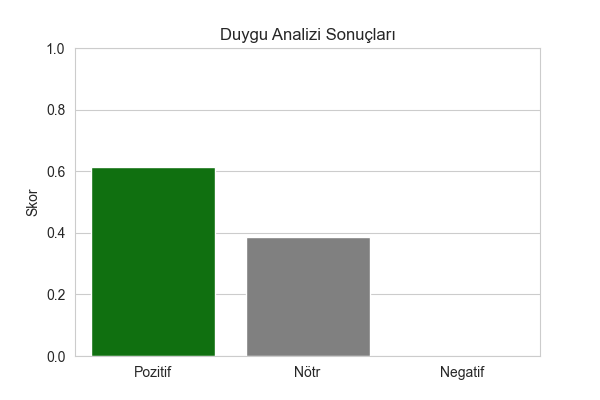
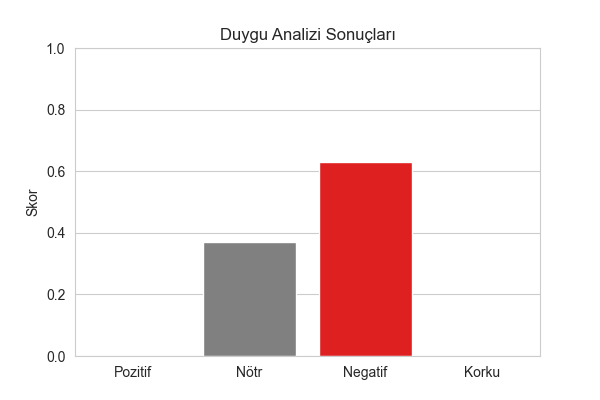
new feeling added
new feeling has been added and some changes have been made to the design

Changed region(s): [[0.15, 0.39, 0.69, 0.96], [0.72, 0.9, 0.84, 0.96]]

diff --git a/duyguAnalizi/templates/index.html b/duyguAnalizi/templates/index.html
@@ -5,24 +5,8 @@
     <meta name="viewport" content="width=device-width, initial-scale=1.0">
     <link href="https://cdn.jsdelivr.net/npm/bootstrap@5.3.0-alpha3/dist/css/bootstrap.min.css" rel="stylesheet">
     <link rel="shortcut icon" href="{{ url_for('static', filename='favicon.png') }}">
+    <link rel="stylesheet" href="{{ url_for('static', filename='style.css') }}">
     <title>Duygu Analizi</title>
-    <style>
-        #loader {
-            display: none;
-        }
-        body {
-            background-color: #f8f9fa; /* Arka plan rengi */
-        }
-        h1 {
-            color: #007bff; /* Başlık rengi */
-        }
-        .result {
-            background-color: #ffffff; /* Sonuç kutusu arka plan rengi */
-            border-radius: 5px;
-            padding: 20px;
-            box-shadow: 0 2px 10px rgba(0, 0, 0, 0.1);
-        }
-    </style>
 </head>
 <body>
     <div class="container mt-5">
@@ -39,13 +23,20 @@
                 <span class="visually-hidden">Yükleniyor...</span>
             </div>
         </div>
+        {% if request.method == 'POST' and 'text' in request.form %}
+            <div class="entered-text mb-3">
+                <label for="text" class="form-label">Analiz Edilen Metin:</label>
+                <textarea class="form-control"  rows="5" required readonly>{{ request.form['text'] }}</textarea>
+            </div>
+        {% endif %}
         {% if sentiment %}
             <div class="result mt-4">
-                <h3>Sonuç:</h3>
-                <p>Duygu: <strong>{{ sentiment }}</strong></p>
+                <h3>Analiz Sonuçları:</h3>
+                <p>Duygu Durumu: <strong>{{ sentiment }}</strong></p>
                 <p>Pozitif Skor: {{ scores.pos }}</p>
                 <p>Nötr Skor: {{ scores.neu }}</p>
                 <p>Negatif Skor: {{ scores.neg }}</p>
+                <p>Korku Skoru: {{ scores.fear }}</p>
                 <img src="{{ url_for('static', filename='sentiment_analysis.png') }}" alt="Duygu Analizi Grafiği" class="img-fluid mt-3">
             </div>
         {% endif %}
@@ -58,6 +49,18 @@
 
             form.addEventListener("submit", function() {
                 loader.style.display = "block"; // Yükleniyor animasyonunu göster
+            });
+        });
+
+        document.addEventListener("DOMContentLoaded", function() {
+            const form = document.querySelector("form");
+            const textArea = document.getElementById("text");
+
+            textArea.addEventListener("keydown", function(event) {
+                if (event.key === "Enter" && !event.shiftKey) {
+                    event.preventDefault(); // Enter tuşunun varsayılan davranışını engelle
+                    form.submit(); // Formu gönder
+                }
             });
         });
     </script>

diff --git a/duyguAnalizi/static/style.css b/duyguAnalizi/static/style.css
@@ -1,0 +1,28 @@
+/* Bu dosya, uygulamanın stil dosyasıdır. */
+body {
+    background-color: #f8f9fa; /* Arka plan rengi */
+}
+h1 {
+    color: #007bff; /* Başlık rengi */
+}
+.result {
+    background-color: #ffffff; /* Sonuç kutusu arka plan rengi */
+    border-radius: 5px;
+    padding: 20px;
+    box-shadow: 0 2px 10px rgba(0, 0, 0, 0.1);
+}
+.result img {
+    display: block;
+    margin-left: auto;
+    margin-right: auto;
+}
+.entered-text {
+    background-color: #e9ecef; /* Girilen metin kutusu arka plan rengi */
+    border-radius: 5px;
+    padding: 15px;
+    margin-top: 20px;
+    box-shadow: 0 2px 10px rgba(0, 0, 0, 0.1);
+}
+ #loader {
+            display: none;
+        }

diff --git a/duyguAnalizi/app.py b/duyguAnalizi/app.py
@@ -1,4 +1,4 @@
-from flask import Flask, render_template, request, send_from_directory
+from flask import Flask, render_template, request
 from nltk.sentiment import SentimentIntensityAnalyzer
 from deep_translator import GoogleTranslator
 import matplotlib.pyplot as plt
@@ -16,6 +16,9 @@ logging.basicConfig(level=logging.INFO)
 app = Flask(__name__)
 sia = SentimentIntensityAnalyzer()
 
+# "Korku" ile ilişkili kelimeler listesi
+FEAR_KEYWORDS = ["korku", "korkutucu", "endişe", "panik", "dehşet", "kaygı"]
+
 # Türkçe metni İngilizceye çeviren fonksiyon
 def translate_turkish_to_english(text):
     try:
@@ -31,20 +34,29 @@ def sentiment_analyzer_and_plot(text):
 
     # Eğer çeviri sırasında hata oluştuysa
     if "Çeviri sırasında hata oluştu" in translated_text:
-        return translated_text, {'pos': 0, 'neu': 0, 'neg': 0}
+        return translated_text, {'pos': 0, 'neu': 0, 'neg': 0, 'fear': 0}
 
     # VADER ile duygu analizi yap
     sentiment_scores = sia.polarity_scores(translated_text)
     logging.info(f"Sentiment Scores: {sentiment_scores}")
 
+    # "Korku" analizini metin üzerinde kontrol et
+    fear_score = any(keyword in text.lower() for keyword in FEAR_KEYWORDS)
+    sentiment_scores['fear'] = 1 if fear_score else 0
+
     # Duygu analiz sonuçlarını görselleştir
-    labels = ['Pozitif', 'Nötr', 'Negatif']
-    values = [sentiment_scores['pos'], sentiment_scores['neu'], sentiment_scores['neg']]
+    labels = ['Pozitif', 'Nötr', 'Negatif', 'Korku']
+    values = [
+        sentiment_scores['pos'],
+        sentiment_scores['neu'],
+        sentiment_scores['neg'],
+        sentiment_scores['fear']
+    ]
 
     # Seaborn ile grafik oluşturma
     plt.figure(figsize=(6, 4))
     sns.set_style("whitegrid")  # Stil ayarı
-    sns.barplot(x=labels, y=values, palette=['green', 'gray', 'red'])
+    sns.barplot(x=labels, y=values, palette=['green', 'gray', 'red', 'purple'])
     plt.title('Duygu Analizi Sonuçları')
     plt.ylabel('Skor')
     plt.ylim(0, 1)
@@ -58,7 +70,9 @@ def sentiment_analyzer_and_plot(text):
     plt.close()  # Grafiği kapat
 
     # Compound skoruna göre duygu etiketi
-    if sentiment_scores['compound'] >= 0.05:
+    if sentiment_scores['fear'] == 1:
+        sentiment = "korku"
+    elif sentiment_scores['compound'] >= 0.05:
         sentiment = "pozitif"
     elif sentiment_scores['compound'] <= -0.05:
         sentiment = "negatif"
@@ -69,8 +83,9 @@ def sentiment_analyzer_and_plot(text):
 
 @app.route('/', methods=['GET', 'POST'])
 def index():
+    text = ""
     sentiment = ""
-    scores = {'pos': 0, 'neu': 0, 'neg': 0}
+    scores = {'pos': 0, 'neu': 0, 'neg': 0, 'fear': 0}
     if request.method == 'POST':
         text = request.form['text']
         logging.info(f"Received text: {text}")
@@ -84,7 +99,7 @@ def index():
                 sentiment, sentiment_scores = sentiment_analyzer_and_plot(text)
                 scores = sentiment_scores
             except Exception as e:
-                logging.error(f"Error during sentiment analysis: {e}")
+                logging.error(f"Duyarlılık analizi sırasında hata oluştu: {e}")
                 sentiment = "Duygu analizi sırasında bir hata oluştu."
 
     return render_template('index.html', sentiment=sentiment, scores=scores)
